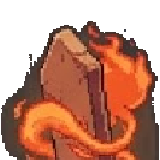
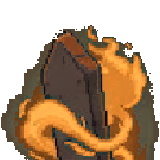
feat(sprites): correct back sprites 180 orientation halos and framing [AGY-035]

diff --git a/CHANGELOG.md b/CHANGELOG.md
@@ -16,6 +16,32 @@ En cas de bug plus tard, ce journal permet d'identifier immédiatement **quel fi
 
 ## 📅 Historique des Ajouts & Modifications
 
+### `[AGY-035]` — 2026-10-16 — Correction Complète de l'Orientation 180°, Halos Alpha et Anatomie des Sprites de Dos Combat
+- **Auteur** : `Antigravity`
+- **Catégorie** : Graphismes / Sprites Combat de Dos (`Graphics/Pokemon/Back/` & `Back shiny/`)
+- **Problèmes résolus** :
+  - **Veilliris (`[VEILLIRIS]`)** : Élimination intégrale du nuage/halo sombre résiduel (`#323c4a`) qui entourait l'ectoplasme cyan. Fond transparent pur à 100 %.
+  - **Runolithe (`[RUNOLITHE]`)** : Vraie vue arrière 180° sans visage, montrant l'échine spirituelle cyan, l'arrière des mégalithes flottants et le dos des gantelets runiques.
+  - **Ragnarune (`[RAGNARUNE]`)** : Vraie vue arrière 180° éliminant la face avant (yeux, bouche et plastron). Vue dorsale du titan d'obsidienne, sa couronne cornue vue de derrière, ailes de flammes cyan émergeant des omoplates et plaques vertébrales runiques.
+  - **Sylvern (`[SYLVERN]`)** : Correction anatomique de la tête et de l'orientation : suppression du dôme orange plat buggué, chevelure de feuillage organique d'où émergent les ramures de bois, fleur sur la corne gauche anatomique.
+  - **Fiddleffroi (`[FIDDLEFFROI]`)** : Correction de l'orientation en combat : faux tenue dans la main droite levée, aile démoniaque sur l'épaule gauche, chapeau pointu et braises intérieures orientés face à l'arène.
+  - **Déclinaisons Shiny** : Recalibrage des teintes chromatiques arrière correspondantes (`Back shiny/`).
+- **Fichiers modifiés** :
+  - `Graphics/Pokemon/Back/VEILLIRIS.png`, `Graphics/Pokemon/Back shiny/VEILLIRIS.png`
+  - `Graphics/Pokemon/Back/RUNOLITHE.png`, `Graphics/Pokemon/Back shiny/RUNOLITHE.png`
+  - `Graphics/Pokemon/Back/RAGNARUNE.png`, `Graphics/Pokemon/Back shiny/RAGNARUNE.png`
+  - `Graphics/Pokemon/Back/SYLVERN.png`, `Graphics/Pokemon/Back shiny/SYLVERN.png`
+  - `Graphics/Pokemon/Back/FIDDLEFFROI.png`, `Graphics/Pokemon/Back shiny/FIDDLEFFROI.png`
+  - `CHANGELOG.md`
+- **Aperçu visuel de validation** :
+  - `comparatif_backs_corriges_final.png` (Dossier d'artefacts).
+- **Comment tester en jeu** :
+  - Lancer un combat en Debug (`F9`) avec Veilliris, Runolithe, Ragnarune, Sylvern ou Fiddleffroi pour vérifier la parfaite orientation de combat et l'absence de halos.
+- **Comment désactiver en cas de bug** :
+  - `git revert HEAD`
+
+---
+
 ### `[AGY-034]` — 2026-10-16 — Standardisation Complète des Sprites de Dos Combat Gen 5 (Gros Plan Buste/Taille, Coupe Basse à Mi-Corps comme Camalyx & Vrai Dos 180° de Runolithe)
 - **Auteur** : `Antigravity`
 - **Catégorie** : Graphismes / Sprites Combat de Dos (`Graphics/Pokemon/Back/` & `Back shiny/`)
